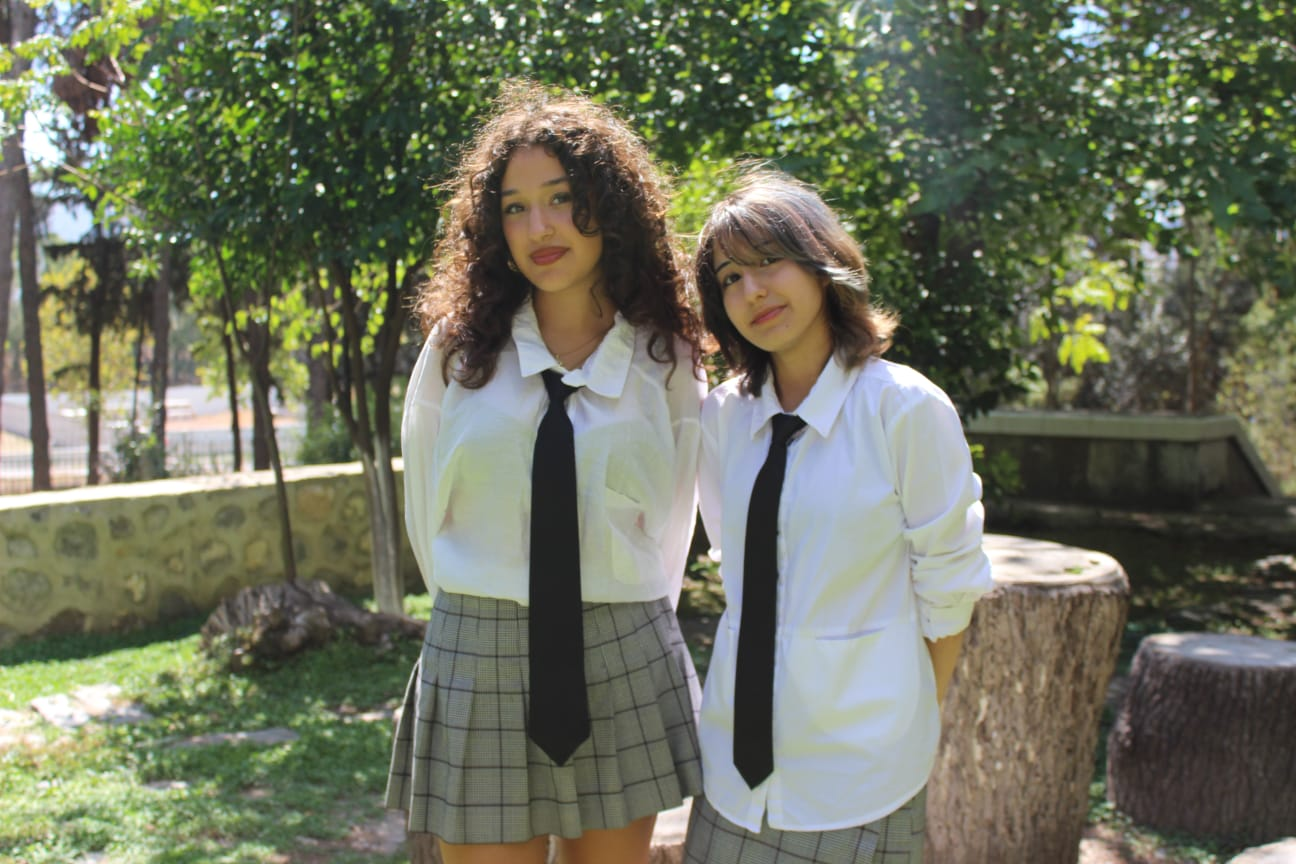
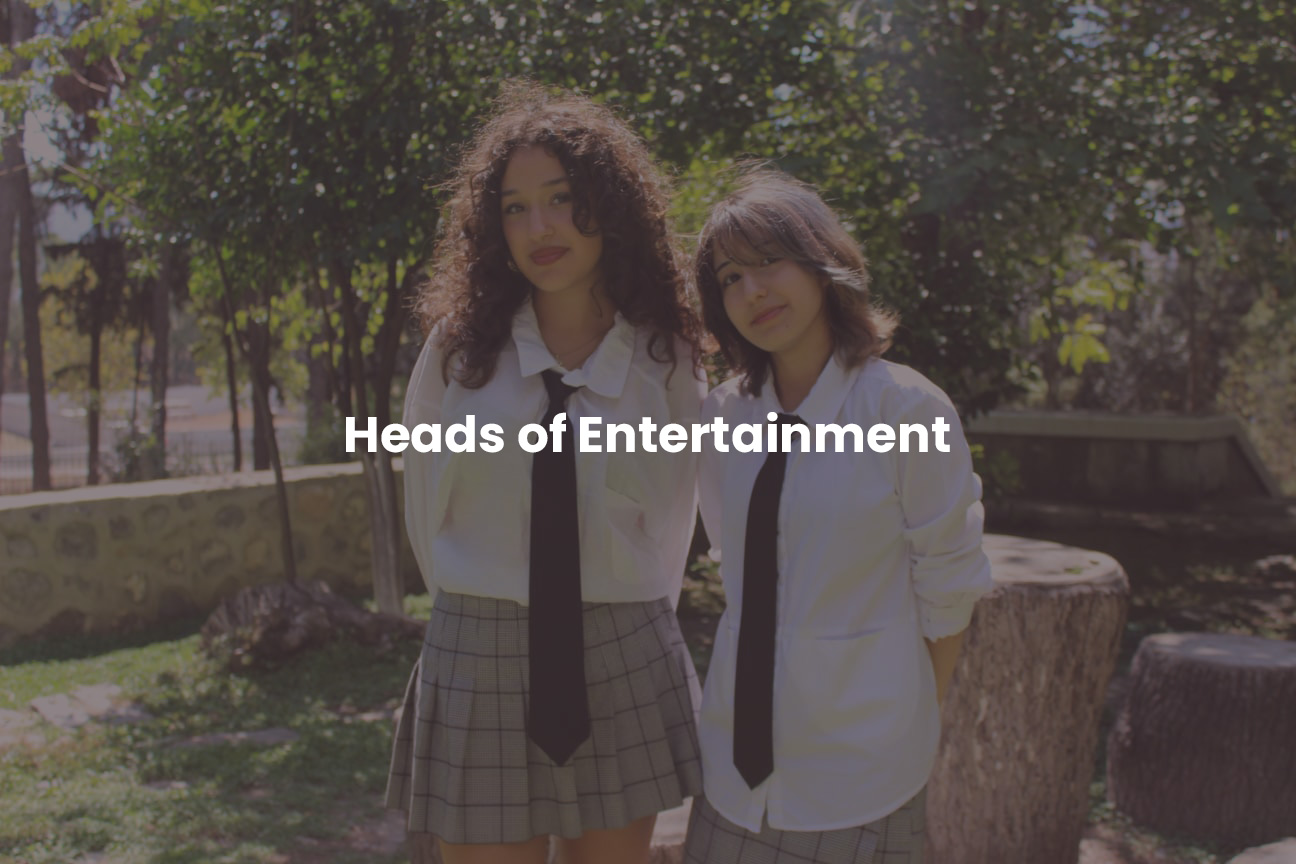
teams page

diff --git a/team.html b/team.html
@@ -4,192 +4,107 @@
     <meta charset="UTF-8" />
     <meta name="viewport" content="width=device-width, initial-scale=1.0" />
     <title>HONEYMUN'25 | Team</title>
-    <link
-      rel="shortcut icon"
-      href="assets/img/logo-transparent.ico"
-      type="image/x-icon"
-    />
     <link rel="stylesheet" href="style.css" />
     <style>
-      @import url("https://fonts.googleapis.com/css2?family=Lato:ital,wght@0,100;0,300;0,400;0,700;0,900;1,100;1,300;1,400;1,700;1,900&display=swap");
+      @import url("https://fonts.googleapis.com/css2?family=Lato:ital,wght@0,100;0,300;0,400;0,700;0,900&display=swap");
 
       :root {
         --text-main: #2d2226;
       }
 
       body {
-        overflow: hidden;
         margin: 0;
         font-family: "Poppins", sans-serif;
         display: flex;
         align-items: center;
         justify-content: center;
         min-height: 100vh;
+        background: url("assets/img/background.jpg") no-repeat center center/cover;
       }
 
-      body::before {
-        content: "";
-        position: fixed;
-        top: 0;
-        left: 0;
-        width: 100%;
-        height: 100%;
-        background-image: url("assets/img/background.jpg");
-        background-size: cover;
-        background-position: center;
-        background-repeat: no-repeat;
-        transform: scaleX(-1);
-        z-index: -1;
-        pointer-events: none;
+      .glass-container {
+        background: rgba(255, 255, 255, 0.1);
+        backdrop-filter: blur(10px);
+        border-radius: 15px;
+        padding: 40px;
+        box-shadow: 0 4px 30px rgba(0, 0, 0, 0.1);
+        border: 1px solid rgba(255, 255, 255, 0.2);
+        width: 90%;
+        max-width: 800px;
+        height: auto; 
+        margin: 0 auto;
+        max-height: 80vh; 
+        overflow: hidden;
+        display: flex;
+        justify-content: center;
+        align-items: center;
+        flex-direction: column;
       }
 
-      .container {
+      .team-section {
         display: flex;
         flex-direction: column;
-        align-items: center;
         justify-content: center;
-        gap: 5px; /* Dikey boşluk azaltıldı */
-        padding: 40px 10px 10px; /* Üst padding azaltıldı */
+        align-items: center;
         text-align: center;
-        box-sizing: border-box;
+        width: 100%;
       }
 
-      .top-sec {
-        font-weight: 900;
-        font-style: italic;
-        font-size: 1.8em;
+      .team-title {
+        font-size: 3rem;
         color: var(--text-main);
-        margin-bottom: 2px; /* Yazıyla resimler arasındaki boşluk azaltıldı */
+        margin-bottom: 20px;
       }
 
-      .main-sec {
-        display: grid;
-        grid-template-columns: repeat(5, 1fr);
-        gap: 4px; /* Fotoğraflar arasındaki boşluk yarıya indirildi */
-        justify-items: center;
-        width: 100%;
-        max-width: 1200px;
-        margin: 0 auto;
-      }
-
-      .profile {
+      .slider {
         position: relative;
-        width: 125px;
-        height: 125px;
+        width: 100%;
+        max-width: 700px;
+        border-radius: 10px;
         overflow: hidden;
-        border-radius: 12px;
-        perspective: 1000px;
-        cursor: pointer;
-        transition: transform 0.3s ease-in-out;
       }
 
-      .profile:hover {
-        transform: scale(1.05);
-      }
-
-      .profile-inner {
-        position: relative;
+      .slider img {
         width: 100%;
-        height: 100%;
-        transform-style: preserve-3d;
-        transition: transform 0.6s, opacity 0.6s;
+        display: none;
+        transition: opacity 0.5s ease-in-out;
       }
 
-      .profile img {
-        width: 100%;
-        height: 100%;
-        object-fit: cover;
-        border-radius: 12px;
+      .slider img.active {
         display: block;
       }
 
-      .profile .details {
+      .dots {
         position: absolute;
-        top: 0;
-        left: 0;
-        width: 100%;
-        height: 100%;
+        bottom: 20px; 
+        left: 50%;
+        transform: translateX(-50%);
         display: flex;
-        align-items: center;
-        justify-content: center;
-        background-color: #2d2226c5;
-        color: #fff;
-        font-size: medium;
-        opacity: 0;
-        transition: opacity 0.6s ease-in-out;
-        border-radius: 12px;
-        font-weight: 900;
-        font-family: "Poppins", sans-serif;
-        font-style: italic;
+        gap: 10px;
+        backdrop-filter: blur(10px);
       }
 
-      .profile:hover .details {
-        opacity: 1;
+      .dots span {
+        height: 10px;
+        width: 10px;
+        background-color: rgba(255, 255, 255, 0.5);
+        border-radius: 50%;
+        display: inline-block;
+        cursor: pointer;
+        transition: background-color 0.3s;
       }
 
-      /* Navbar Font Style */
-      .nav-links a {
-        font-weight: 500; /* Medium weight */
+      .dots .active {
+        background-color: rgba(255, 255, 255, 0.8);
       }
 
-      /* Responsive Styles */
-      @media screen and (max-width: 1024px) {
-        .main-sec {
-          grid-template-columns: repeat(3, 1fr); /* 3 kolonlu düzen */
+      @media (max-width: 768px) {
+        .team-title {
+          font-size: 2.5rem;
         }
 
-        .profile {
-          width: 160px;
-          height: 160px;
-        }
-      }
-
-      @media screen and (max-width: 768px) {
-        .main-sec {
-          grid-template-columns: repeat(2, 1fr);
-          gap: 4px; /* Mobilde de boşluk azaltıldı */
-        }
-
-        .profile {
-          width: 120px; /* Daha küçük fotoğraflar */
-          height: 120px;
-        }
-
-        .top-sec {
-          font-size: 1.5em;
-          margin-bottom: 2px; /* Mobilde de boşluk azaltıldı */
-        }
-      }
-
-      @media screen and (max-width: 480px) {
-        .main-sec {
-          grid-template-columns: repeat(2, 1fr);
-          gap: 2px; /* Küçük ekranlarda boşluk azaltıldı */
-        }
-
-        .profile {
-          width: 90px; /* Fotoğraflar küçültüldü */
-          height: 90px;
-        }
-
-        .top-sec {
-          font-size: 1.3em;
-          margin-bottom: 1px; /* En küçük ekranlarda boşluk azaltıldı */
-        }
-
-        .profile .details {
-          font-size: small;
-        }
-      }
-
-      /* Responsive Alignment */
-      @media screen and (min-width: 1025px) {
-        .main-sec {
-          grid-auto-rows: 180px;
-          align-items: center;
-        }
-        .main-sec:last-child {
-          justify-content: center; /* Alt satırda kalan kutucukları ortalar */
+        .slider {
+          width: 90%;
         }
       }
     </style>
@@ -209,80 +124,57 @@
         </div>
       </nav>
     </header>
-
-    <div class="container">
-      <div class="sec top-sec">
-        <h2>Meet With Our Team</h2>
-      </div>
-
-      <div class="sec main-sec">
-        <div class="profile">
-          <div class="profile-inner">
-            <img src="assets/img/heads/orga-head.jpg" alt="Director" />
-            <div class="details">Director General</div>
+    <section class="glass-container">
+      <div class="team-section">
+        <h1 class="team-title">MEET WITH OUR TEAM</h1>
+        <div class="slider">
+          <div class="dots">
+            <span class="dot active" onclick="currentSlide(0)"></span>
+            <span class="dot" onclick="currentSlide(1)"></span>
+            <span class="dot" onclick="currentSlide(2)"></span>
+            <span class="dot" onclick="currentSlide(3)"></span>
+            <span class="dot" onclick="currentSlide(4)"></span>
+            <span class="dot" onclick="currentSlide(5)"></span>
+            <span class="dot" onclick="currentSlide(6)"></span>
+            <span class="dot" onclick="currentSlide(7)"></span>
+            <span class="dot" onclick="currentSlide(8)"></span>
+            <span class="dot" onclick="currentSlide(9)"></span>
           </div>
-        </div>
-        <div class="profile">
-          <div class="profile-inner">
-            <img
-              src="assets/img/heads/deputy-director.jpg"
-              alt="Deputy Director General"
-            />
-            <div class="details">Deputy Director General</div>
-          </div>
-        </div>
-        <div class="profile">
-          <div class="profile-inner">
-            <img
-              src="assets/img/heads/deputy-secretary.jpg"
-              alt="Deputy Secretary General"
-            />
-            <div class="details">Deputy Secretary General</div>
-          </div>
-        </div>
-        <div class="profile">
-          <div class="profile-inner">
-            <img src="assets/img/heads/pr.jpg" alt="Heads Of PR" />
-            <div class="details">Heads Of PR</div>
-          </div>
-        </div>
-        <div class="profile">
-          <div class="profile-inner">
-            <img src="assets/img/heads/press.jpg" alt="Head Of Press" />
-            <div class="details">Head Of Press</div>
-          </div>
-        </div>
-        <div class="profile">
-          <div class="profile-inner">
-            <img src="assets/img/heads/admin.jpg" alt="Heads Of Admin" />
-            <div class="details">Heads Of Admin</div>
-          </div>
-        </div>
-        <div class="profile">
-          <div class="profile-inner">
-            <img src="assets/img/heads/finance.jpg" alt="Heads Of Finance" />
-            <div class="details">Heads Of Finance</div>
-          </div>
-        </div>
-        <div class="profile">
-          <div class="profile-inner">
-            <img src="assets/img/heads/hoit.jpg" alt="Heads Of IT" />
-            <div class="details">Heads Of IT</div>
-          </div>
-        </div>
-        <div class="profile">
-          <div class="profile-inner">
-            <img src="assets/img/heads/security.jpg" alt="Heads Of Security" />
-            <div class="details">Head Of Security</div>
-          </div>
-        </div>
-        <div class="profile">
-          <div class="profile-inner">
-            <img src="assets/img/heads/security.jpg" alt="Heads Of Security" />
-            <div class="details">Head Of Entertainment</div>
-          </div>
+          <img src="assets/img/heads/ddg.jpg" alt="Team Member 1" class="active" />
+          <img src="assets/img/heads/dg.jpg" alt="Team Member 2" />
+          <img src="assets/img/heads/admin.jpg" alt="Team Member 3" />
+          <img src="assets/img/heads/dsg.jpg" alt="Team Member 4" />
+          <img src="assets/img/heads/ent.jpg" alt="Team Member 5" />
+          <img src="assets/img/heads/finance.jpg" alt="Team Member 6" />
+          <img src="assets/img/heads/it.jpg" alt="Team Member 7" />
+          <img src="assets/img/heads/pr.jpg" alt="Team Member 8" />
+          <img src="assets/img/heads/security.jpg" alt="Team Member 9" />
+          <img src="assets/img/heads/admin.jpg" alt="Team Member 10" />
         </div>
       </div>
-    </div>
+    </section>
+
+    <script>
+      let currentSlideIndex = 0;
+      const slides = document.querySelectorAll(".slider img");
+      const dots = document.querySelectorAll(".dot");
+
+      function showSlide(index) {
+        slides.forEach((slide, i) => {
+          slide.classList.toggle("active", i === index);
+          dots[i].classList.toggle("active", i === index);
+        });
+        currentSlideIndex = index;
+      }
+
+      function currentSlide(index) {
+        showSlide(index);
+      }
+
+      setInterval(() => {
+        currentSlideIndex = (currentSlideIndex + 1) % slides.length;
+        showSlide(currentSlideIndex);
+      }, 5000); 
+    </script>
   </body>
 </html>

diff --git a/index.html b/index.html
@@ -235,7 +235,7 @@
 
     <div class="container">
       <div class="sec title-sec">
-        <h1 id="title-sec-txt">HONEYMUN'25</h2>
+        <h1 id="title-sec-txt">HoneyMUN'25</h2>
         <h2 id="title-clickable">#againstthestream</h2>
       </div>
       <div class="sec main-sec">
